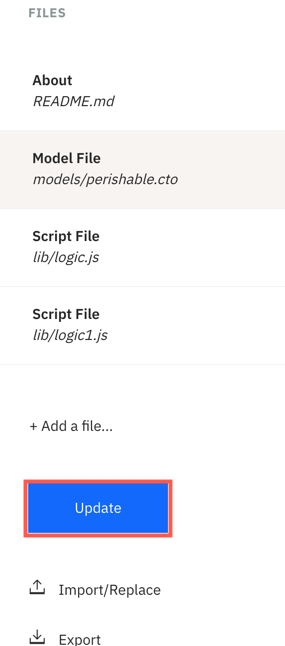
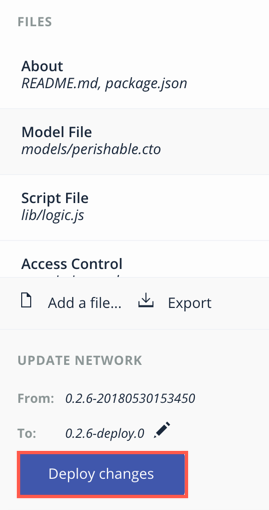
Update README.md

diff --git a/Blockchain/README.md b/Blockchain/README.md
@@ -9,7 +9,7 @@ There are quite a few IBM Blockchain tutorials that are excellent and we won't t
 We will be using Hyperledger Composer Playground to build our perishable network. When we are done, we will export the code to our local system to use in Part B.
 
 ### Import the sample perishable network into Hyperledger Composer Playground
-1. Access the [IBM Hyperledger Composer Playground](https://blockchaindevelop.mybluemix.net/test).
+1. Access the [IBM Hyperledger Composer Playground](http://composer-playground.mybluemix.net/).
 2. Click on **Deploy a new business network**
 ![Select Deploy a new business network.](screenshots/deploynew.png)
 3. Scroll down and choose **perishable-network** from the samples on npm.
@@ -60,7 +60,7 @@ In the following steps, we will make changes to the model file to add in acceler
    }
 ```
 
-2. In your model file,  add **enum CompassDirection**. Enter the following values to enumerate the four cardinal directions:
+2. In your model file,  create **enum CompassDirection**. Enter the following values to enumerate the four cardinal directions:
 ```
 /**
  * Directions of the compass
@@ -192,7 +192,7 @@ event ShipmentInPortEvent {
 }
 ```
 
-10. Our model file is now complete. Select **Update** to save the changes in the Hyperledger Composer Playground.
+10. Our model file is now complete. Select **Deploy changes** to save the changes in the Hyperledger Composer Playground.
 ![Click Update.](screenshots/Update.png)
 
 11. Now it is time to **copy** (CTRL+C) our new logic.js file from our [repository](IoT-Perishable-Network/lib/logic.js).
@@ -200,7 +200,7 @@ event ShipmentInPortEvent {
 12. Back in the Hyperledger Composer Playground:
 * **Remove all of the content** (CTRL+A) in the logic.js file
 * **Paste** (CTRL+V) in the content copied from the logic.js file in our repository.
-* Select **Update** to save the changes.
+* Select **Deploy Changes** to save the changes.
 ![Perishable Network BNA model update screenshot](screenshots/Perishable-Network-BNA-Model-update-annotated.png "Hyperledger Composer Model")
 
 13. Now let's test our work! Click on the **Test** tab at the top of the page.
@@ -267,6 +267,7 @@ To deploy our code, we'll need to work with some of the Hyperledger Composer com
 
 1. Follow the [directions](https://hyperledger.github.io/composer/latest/installing/installing-index) for installing the prerequisites and installing Hyperledger Composer. 
 * Only complete Step 1 and Step 2 of installing Hyperledger Composer for this exercise.
+* If you've previously had Hyperledger Composer installed, follow these directions for [updating Hyperledger Composer](https://hyperledger.github.io/composer/v0.16/managing/updating-composer). Complete both steps.
 
 #### Prepare your code for deployment
 1. In your toolchain, select the **GitHub** icon to open your newly created repository.
